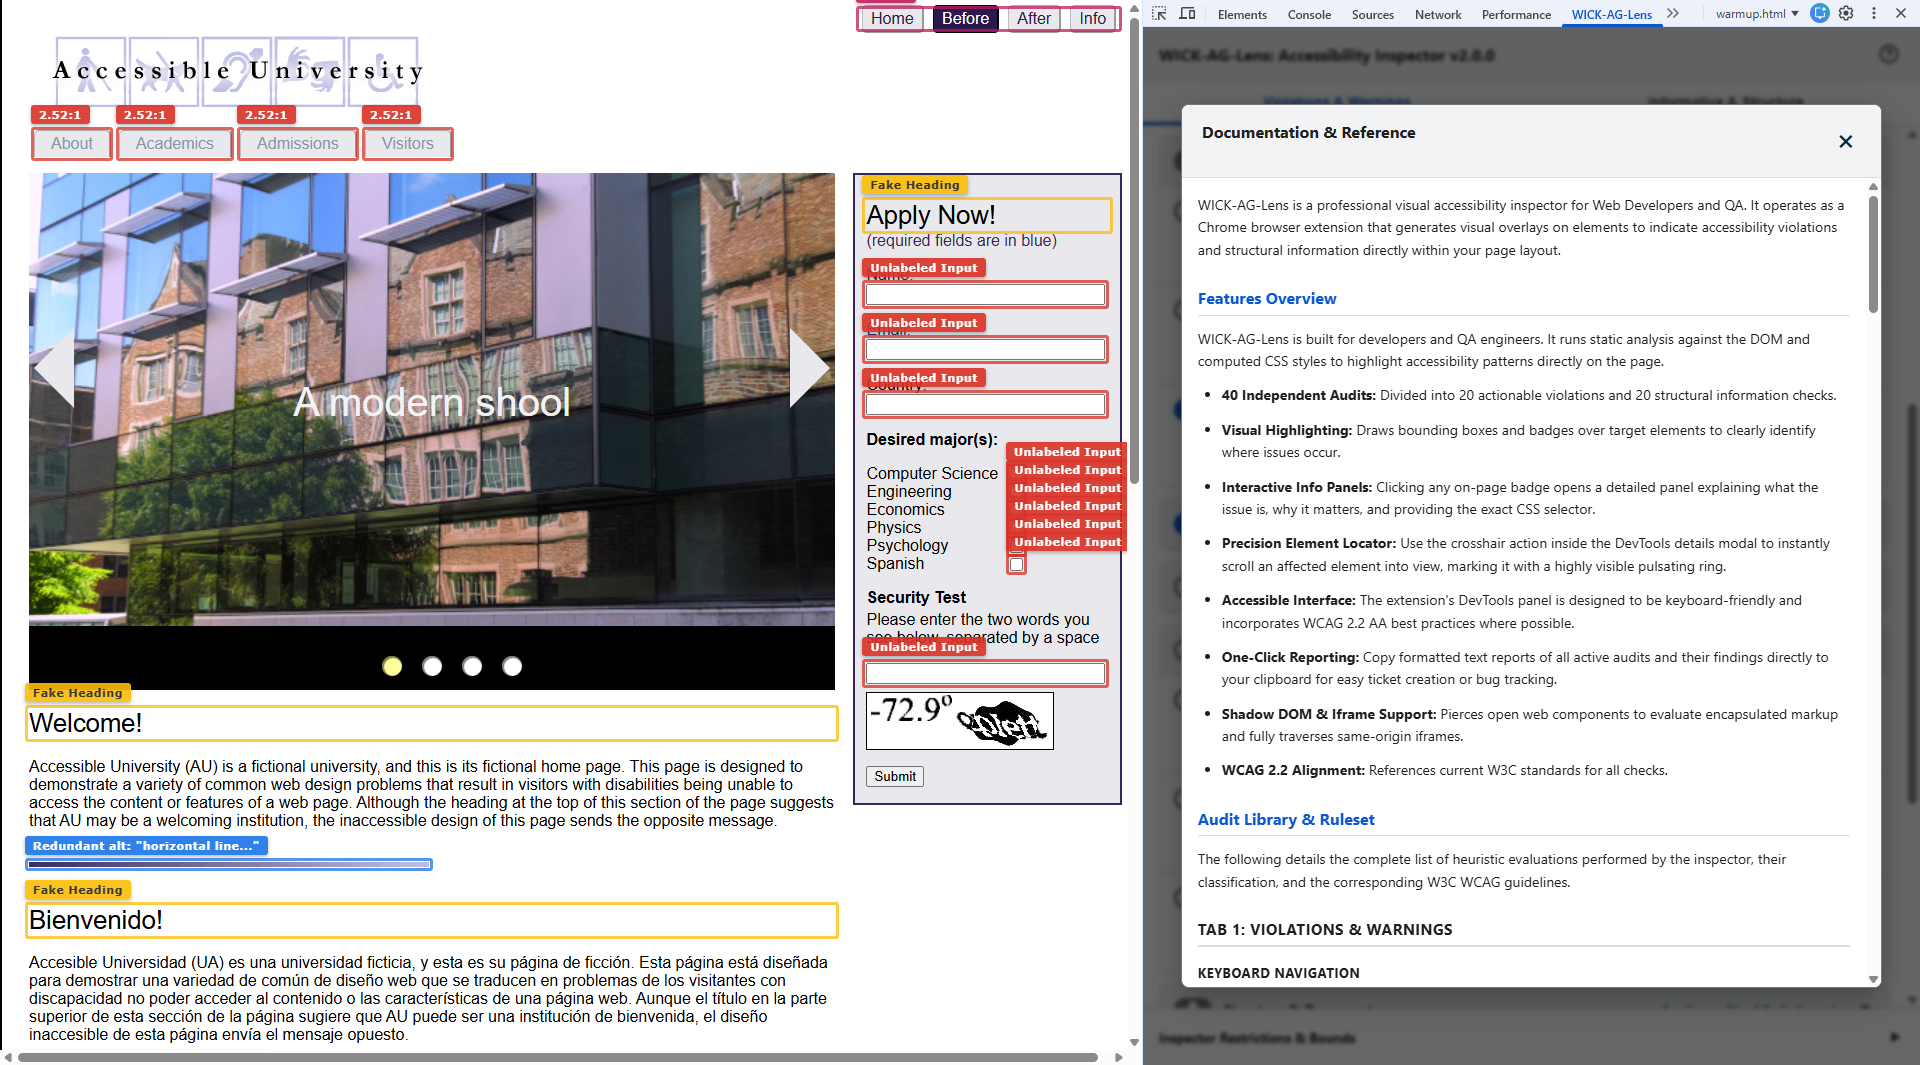
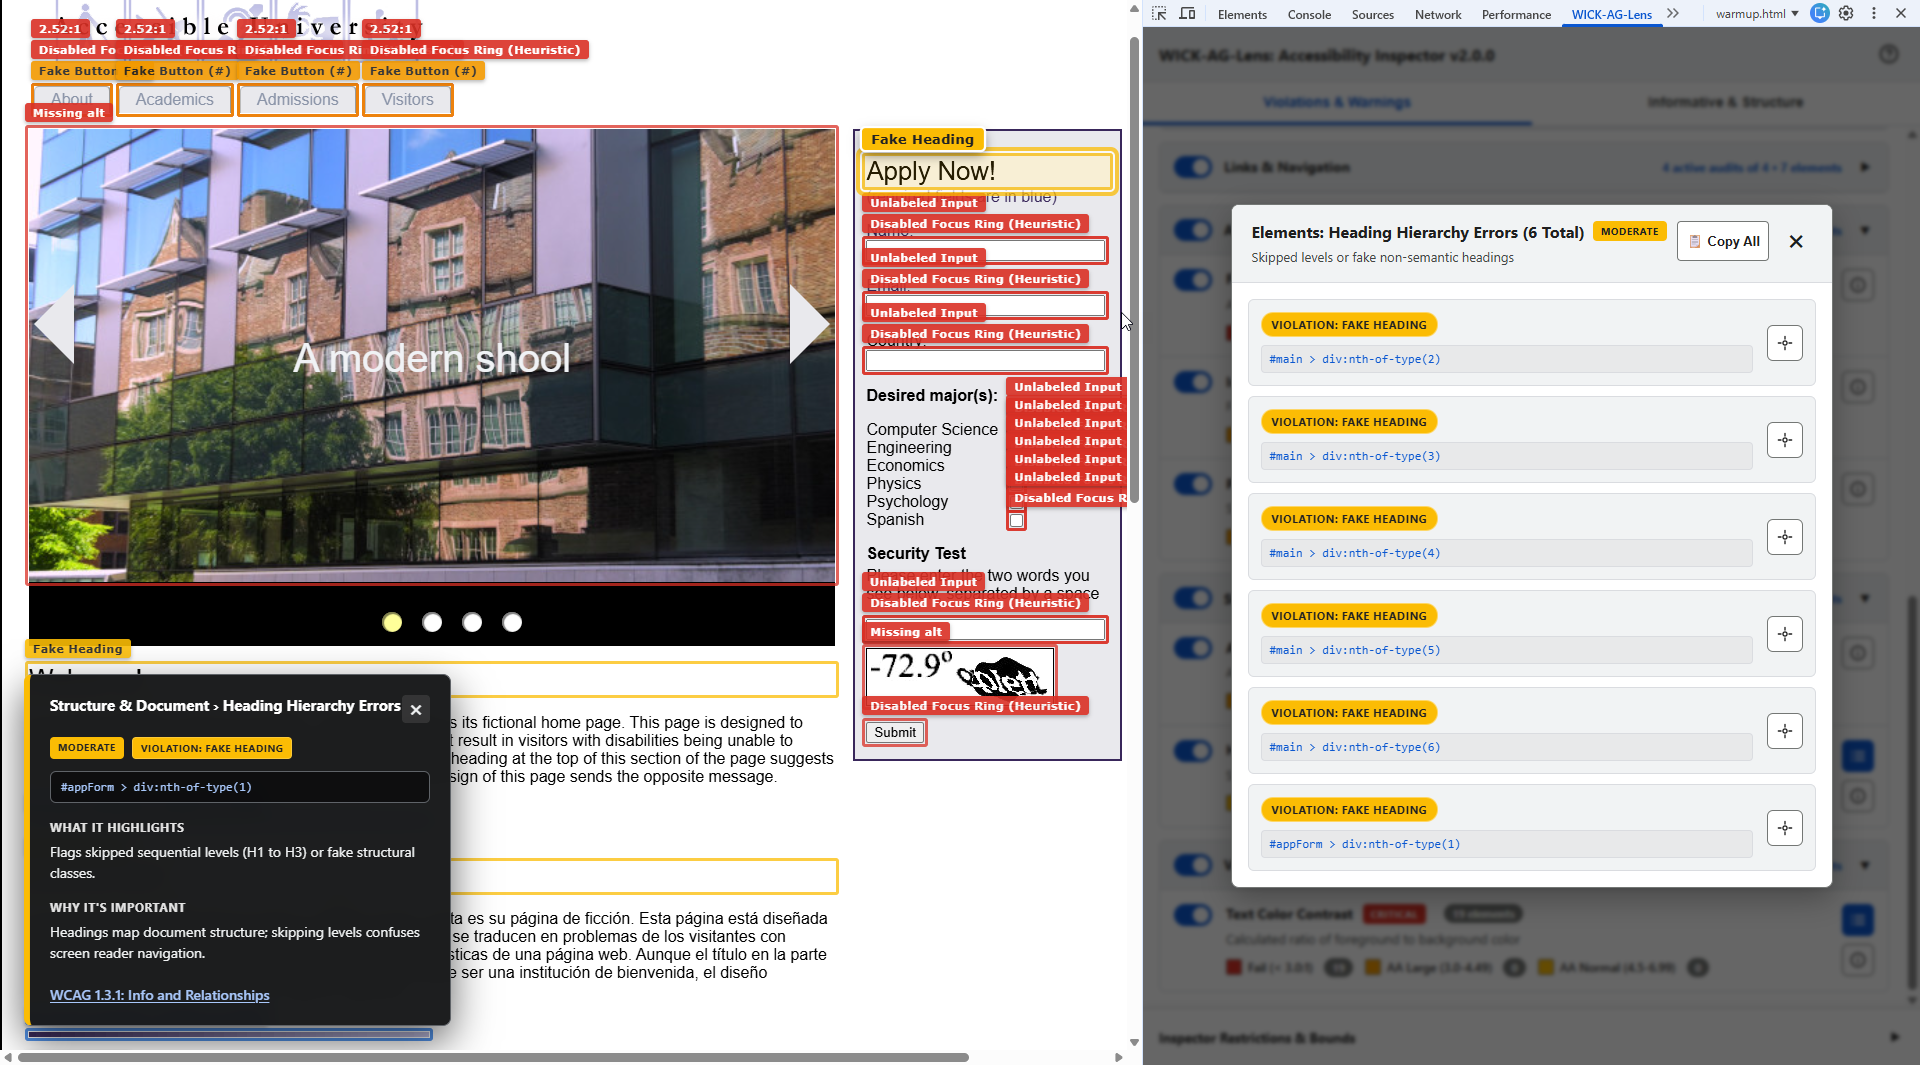
Update overview image.

diff --git a/README.md b/README.md
@@ -4,7 +4,7 @@ WICK-AG-Lens is a professional visual accessibility inspector for Web Developers
 
 You can install WICK-AG-Lens from the Chrome Web Store: [Install Here](https://chromewebstore.google.com/detail/accessibility-inspector/fjbgedagallcokpkfdlmpafcffblmlhd).
 
-![WICK-AG-Lens: Accessibility Inspector overview features](images\overview.png)
+![WICK-AG-Lens: Accessibility Inspector overview features](images/overview.png)
 
 
 ## Table of Contents
